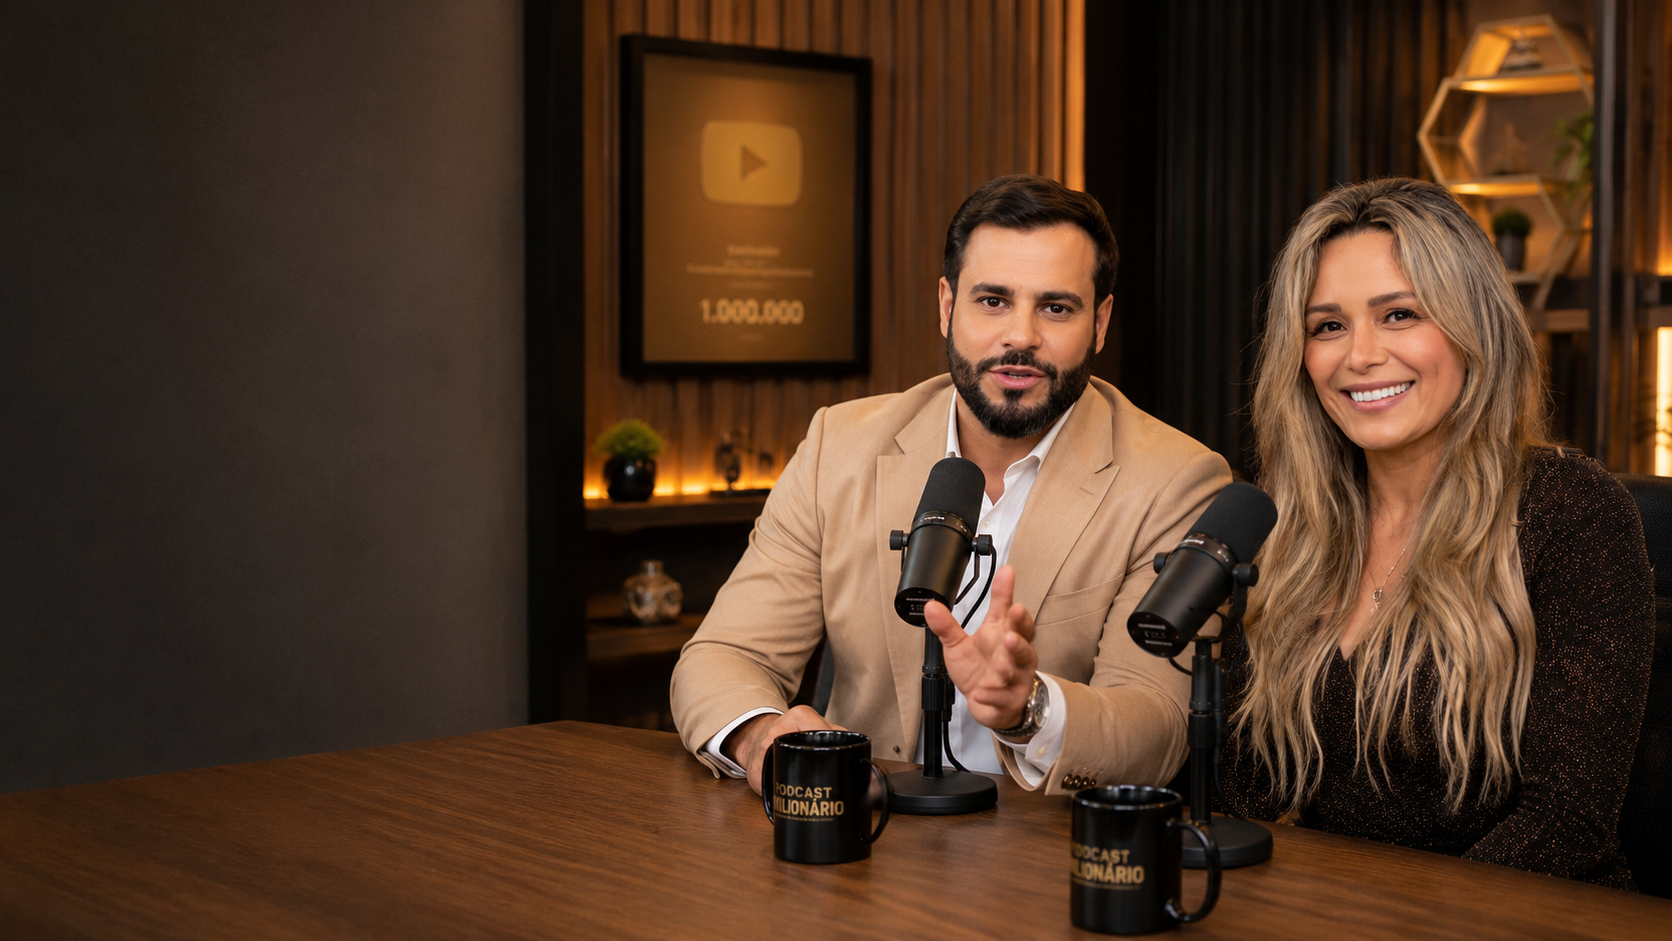
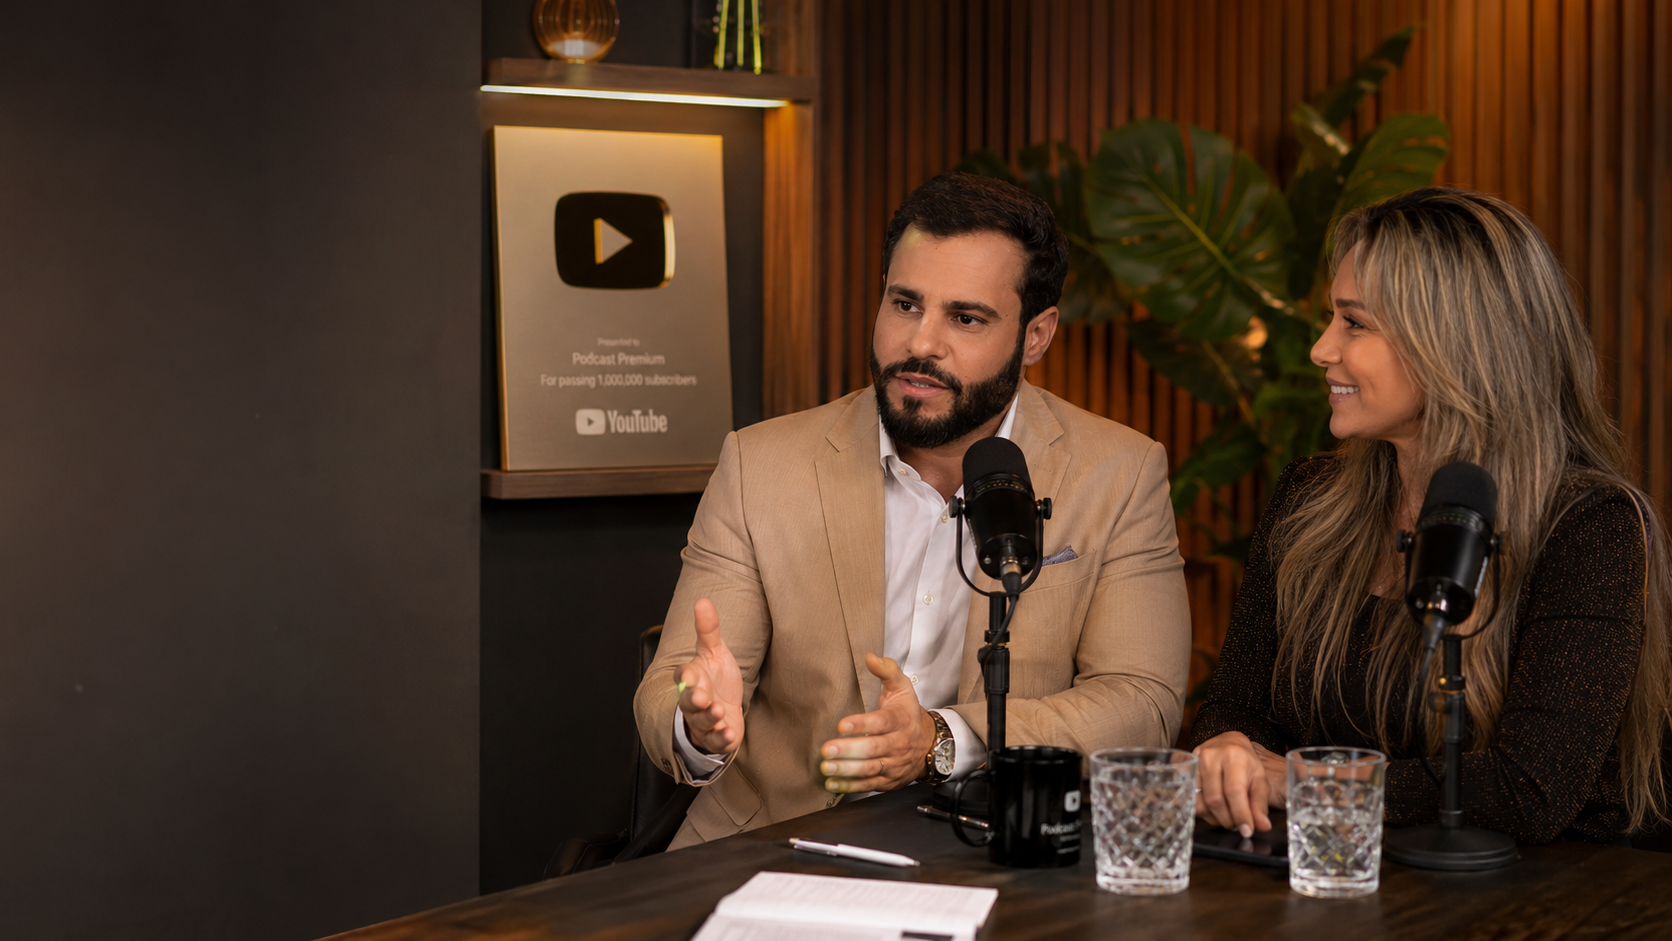
refactor: revert edition and social media modules to standard layout while keeping podcast premium

diff --git a/index.html b/index.html
@@ -214,8 +214,9 @@
       <h2 class="section-title">O Pacote — Operação Digital Completa</h2>
       <p style="font-size: 1.2rem; color: var(--color-text-muted);">Um único fee mensal. Todas as frentes cobertas. Nenhum custo adicional fora do escopo descrito.</p>
     </div>
-  </div> <!-- Close container here -->
-
+  </div> <!-- Container remains open for first part -->
+  
+  <!-- Podcast module stays in bleed container -->
   <div class="modules-bleed-container">
     <div class="module-block-premium">
       <div class="module-bg-image">
@@ -241,55 +242,49 @@
         <div class="module-image-spacer" aria-hidden="true"></div>
       </div>
     </div>
+  </div>
 
-    <div class="module-block-premium" style="margin-bottom: 120px;">
-      <div class="module-bg-image">
-        <img src="edicao.png" alt="Conteúdo Curto: A Máquina de Alcance">
+  <div class="container">
+    <div class="module-block module-block--light">
+      <div class="module-index">
+        <span class="mod-num">02</span>
+        <div class="mod-line" aria-hidden="true"></div>
       </div>
-      <div class="module-overlay-grad"></div>
-      
-      <div class="module-content-premium">
-        <div class="module-text-side">
-          <div class="module-tag">10 vídeos / mês</div>
-          <h3 class="module-title">Conteúdo Curto: A Máquina de Alcance</h3>
-          <p class="module-body">A partir do episódio de podcast do mês, são extraídos e editados 10 vídeos curtos para Instagram Reels, YouTube Shorts e TikTok. Cada vídeo é trabalhado individualmente com técnica aplicada de retenção: construção de gancho nos primeiros segundos, ritmo de cortes calibrado, legendas dinâmicas e sound design.</p>
-          <ul class="module-list" role="list" style="grid-template-columns: 1fr;">
-            <li>10 vídeos editados por mês, produzidos a partir dos melhores momentos do podcast</li>
-            <li>Edição com foco em retenção e performance algorítmica — a mesma metodologia aplicada em projetos que atingiram mais de 1 milhão de visualizações orgânicas</li>
-            <li>Formatação para cada plataforma: proporção, legendas e especificações técnicas adequadas para Reels, Shorts e TikTok</li>
-            <li>Uso de ferramentas de IA para otimização de cortes e geração de recursos visuais complementares, quando aplicável</li>
-          </ul>
-          <div class="module-outcome">
-            <span class="outcome-label">Resultado esperado</span>
-            <p class="outcome-text" style="font-weight: 500;">Uma gravação. Dez peças de conteúdo. Presença consistente em todas as plataformas ao longo do mês.</p>
-          </div>
+      <div class="module-content">
+        <div class="module-tag">10 vídeos / mês</div>
+        <h3 class="module-title">Conteúdo Curto: A Máquina de Alcance</h3>
+        <p class="module-body">A partir do episódio de podcast do mês, são extraídos e editados 10 vídeos curtos para Instagram Reels, YouTube Shorts e TikTok. Cada vídeo é trabalhado individualmente com técnica aplicada de retenção: construção de gancho nos primeiros segundos, ritmo de cortes calibrado, legendas dinâmicas e sound design.</p>
+        <ul class="module-list" role="list" style="grid-template-columns: 1fr;">
+          <li>10 vídeos editados por mês, produzidos a partir dos melhores momentos do podcast</li>
+          <li>Edição com foco em retenção e performance algorítmica — a mesma metodologia aplicada em projetos que atingiram mais de 1 milhão de visualizações orgânicas</li>
+          <li>Formatação para cada plataforma: proporção, legendas e especificações técnicas adequadas para Reels, Shorts e TikTok</li>
+          <li>Uso de ferramentas de IA para otimização de cortes e geração de recursos visuais complementares, quando aplicável</li>
+        </ul>
+        <div class="module-outcome">
+          <span class="outcome-label">Resultado esperado</span>
+          <p class="outcome-text" style="font-weight: 500;">Uma gravação. Dez peças de conteúdo. Presença consistente em todas as plataformas ao longo do mês.</p>
         </div>
-        <div class="module-image-spacer" aria-hidden="true"></div>
       </div>
     </div>
 
-    <div class="module-block-premium" style="margin-bottom: 120px;">
-      <div class="module-bg-image">
-        <img src="postagem.png" alt="Gestão de Redes Sociais: A Operação Contínua">
+    <div class="module-block">
+      <div class="module-index">
+        <span class="mod-num">03</span>
+        <div class="mod-line" aria-hidden="true"></div>
       </div>
-      <div class="module-overlay-grad"></div>
-      
-      <div class="module-content-premium">
-        <div class="module-text-side">
-          <div class="module-tag">Mensal contínuo</div>
-          <h3 class="module-title">Gestão de Redes Sociais: A Operação Contínua</h3>
-          <p class="module-body">Um profissional dedicado, integrante da equipe de Mike, responsável exclusivamente pelo agendamento e publicação de todo o conteúdo produzido dentro do pacote. Sua função é clara e delimitada: garantir que cada vídeo seja publicado no momento de maior alcance para o algoritmo, mantendo as redes de Dr. Pedro e Ana Paula sempre ativas e consistentes.</p>
-          <ul class="module-list" role="list" style="grid-template-columns: 1fr;">
-            <li>Agendamento e publicação dos 10 vídeos mensais no Instagram e YouTube</li>
-            <li>Organização da grade mensal com distribuição estratégica ao longo do mês</li>
-            <li>Publicação do episódio de podcast e seus materiais complementares</li>
-          </ul>
-          <div class="module-outcome">
-            <span class="outcome-label">Resultado esperado</span>
-            <p class="outcome-text" style="font-weight: 500;">Dr. Pedro e Ana Paula não precisam tocar no processo de postagem.</p>
-          </div>
+      <div class="module-content">
+        <div class="module-tag">Mensal contínuo</div>
+        <h3 class="module-title">Gestão de Redes Sociais: A Operação Contínua</h3>
+        <p class="module-body">Um profissional dedicado, integrante da equipe de Mike, responsável exclusivamente pelo agendamento e publicação de todo o conteúdo produzido dentro do pacote. Sua função é clara e delimitada: garantir que cada vídeo seja publicado no momento de maior alcance para o algoritmo, mantendo as redes de Dr. Pedro e Ana Paula sempre ativas e consistentes.</p>
+        <ul class="module-list" role="list" style="grid-template-columns: 1fr;">
+          <li>Agendamento e publicação dos 10 vídeos mensais no Instagram e YouTube</li>
+          <li>Organização da grade mensal com distribuição estratégica ao longo do mês</li>
+          <li>Publicação do episódio de podcast e seus materiais complementares</li>
+        </ul>
+        <div class="module-outcome">
+          <span class="outcome-label">Resultado esperado</span>
+          <p class="outcome-text" style="font-weight: 500;">Dr. Pedro e Ana Paula não precisam tocar no processo de postagem.</p>
         </div>
-        <div class="module-image-spacer" aria-hidden="true"></div>
       </div>
     </div>
   </div>